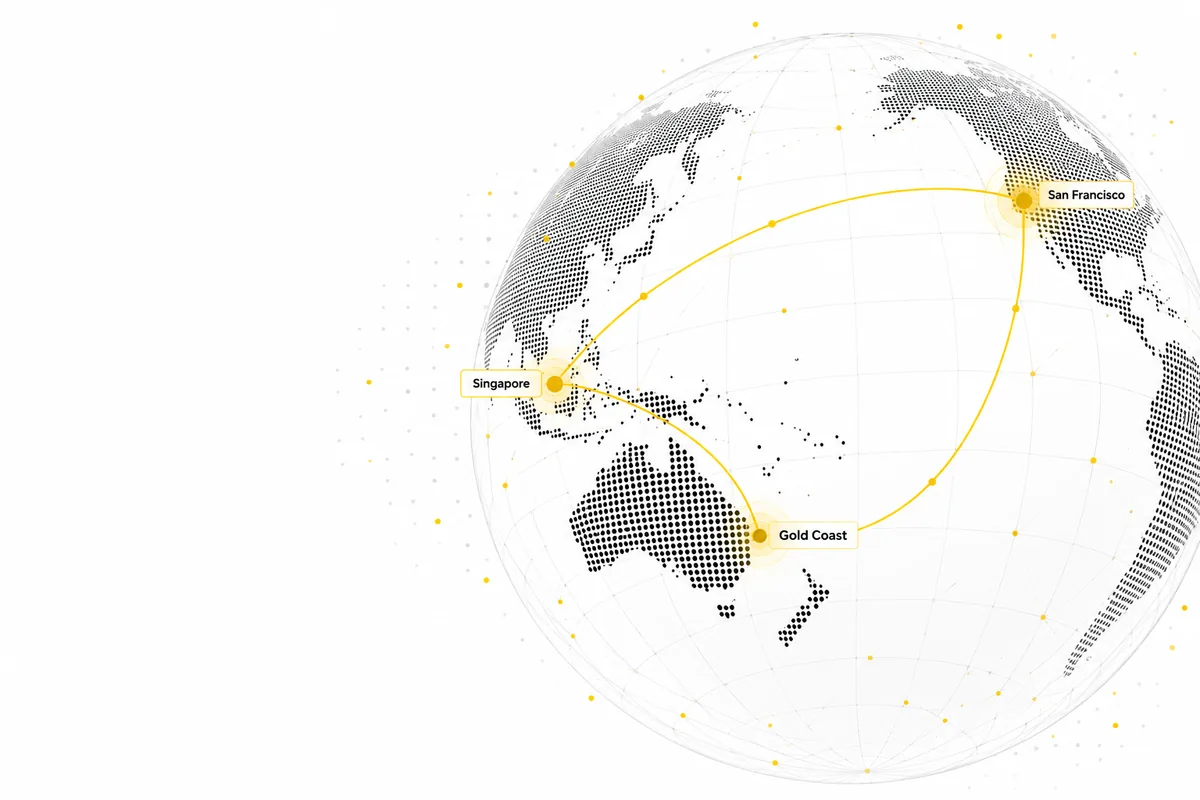
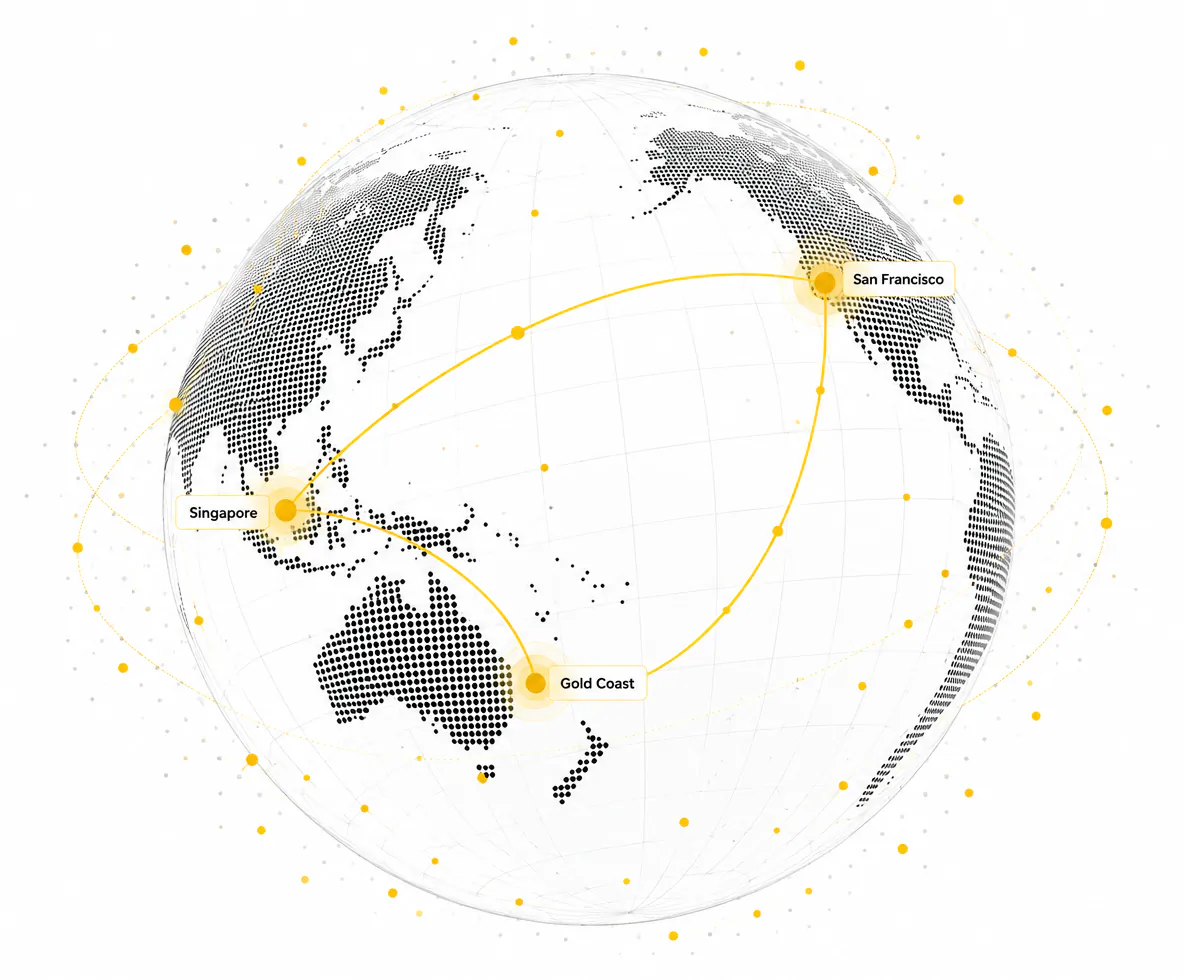
Hero: replace globe artwork with the uncropped export
The previous asset had the globe running off the right edge of the file,
and the stylesheet cropped it again with a right-anchored cover fill. The
new export is a complete composition, so the crop is gone: the image now
scales with its column at its own aspect ratio and no edge can be cut off.

Design's export carries a wide white margin either side. That is trimmed
in the asset so the globe fills the column; what remains is invisible
against the white page.

Ships as a picture element, AVIF first with a WebP fallback, both at 2x
the largest display size. Intrinsic dimensions are on the img so the
layout does not shift while the hero loads.

Claude-Session: https://claude.ai/code/session_015zhDWGvZtSAEP11othLdRK

diff --git a/public/styles.css b/public/styles.css
@@ -143,10 +143,13 @@ a { color: var(--accent-hover); text-decoration: none; }
 }
 .backed img { width: 32px; height: 32px; flex: none; object-fit: contain; }
 
-.hero__media { height: 220px; margin-top: 16px; }
-/* Globe sits on the right of the artwork with whitespace on the left,
-   so anchor the crop right to keep the city labels in frame. */
-.hero__media img { width: 100%; height: 100%; object-fit: cover; object-position: right center; }
+/* The artwork is a complete composition: the globe with all three city
+   labels inside its own margins. It is never cropped, so nothing can be
+   cut off at an edge; it simply scales with the column. The art sits on
+   white, like the page, so its margins are invisible. */
+.hero__media { margin-top: 16px; }
+.hero__media picture { display: block; }
+.hero__media img { display: block; width: 100%; height: auto; }
 
 /* ===================== 01 · Our first product ===================== */
 .build {
@@ -552,7 +555,7 @@ textarea.form__input { resize: vertical; min-height: 140px; }
   }
   .link-underline:hover { color: var(--accent-hover); }
   .backed { font-size: 14px; margin-top: 8px; }
-  .hero__media { height: 520px; margin-top: 0; }
+  .hero__media { margin-top: 0; }
 
   /* Section headers */
   .sec-head {

diff --git a/public/index.html b/public/index.html
@@ -36,7 +36,7 @@
   <link rel="preconnect" href="https://fonts.gstatic.com" crossorigin>
   <link href="https://fonts.googleapis.com/css2?family=Zen+Kaku+Gothic+New:wght@500;700&family=Inter:wght@400;500&display=swap" rel="stylesheet">
 
-  <link rel="stylesheet" href="styles.css?v=6">
+  <link rel="stylesheet" href="styles.css?v=7">
 
   <!-- Structured data (a data block: not executed, so the CSP does not apply) -->
   <script type="application/ld+json">
@@ -137,7 +137,10 @@
         </div>
       </div>
       <div class="hero__media">
-        <img src="assets/hero.webp" fetchpriority="high" alt="A globe tracing payment routes between Singapore, Gold Coast, and San Francisco" width="1200" height="800">
+        <picture>
+          <source srcset="assets/hero.avif?v=2" type="image/avif">
+          <img src="assets/hero.webp?v=2" fetchpriority="high" alt="A globe tracing payment routes between Singapore, Gold Coast, and San Francisco" width="1184" height="980">
+        </picture>
       </div>
     </header>
 

diff --git a/README.md b/README.md
@@ -139,9 +139,21 @@ it on a machine with `Zen Kaku Gothic New` installed — or drop in a designer-m
 All artwork lives in `assets/`, downscaled and compressed for the web (photos
 as WebP; flat art as palette PNG). Fits are tuned per image in `styles.css`.
 
+The hero is the page's LCP element, so it ships as a `<picture>`: an AVIF that
+modern browsers take, and a WebP fallback for the rest. Both are the same
+1184x980 art, which is 2x its largest display size (600px wide, in the desktop
+hero column). The source export carries a wide white margin either side; that
+margin is trimmed in the asset so the globe fills the column, and because the
+art's background and the page are both white, the margin that remains is
+invisible. The image is never cropped by CSS: it scales with its column at its
+own aspect ratio, so no edge of the composition can be cut off. Its intrinsic
+`width`/`height` are on the `<img>` so the layout does not shift while it
+loads.
+
 | File | Slot | Notes |
 | --- | --- | --- |
-| `assets/hero.webp` | Hero image | Right-anchored `cover` crop keeps the city labels in frame |
+| `assets/hero.avif` | Hero image | Served first; AVIF is ~30% smaller than the WebP at the same quality |
+| `assets/hero.webp` | Hero image fallback | Same art, for browsers without AVIF |
 | `assets/draper-dragon.png` | "Backed by Draper Dragon" logo | Red shield on white; `contain` |
 | `assets/step-payee.png` | Escrow step 1 · Payee | Shown unclipped — the art draws its own ring + badge |
 | `assets/step-lock.png` | Escrow step 2 · Funds locked | " |
